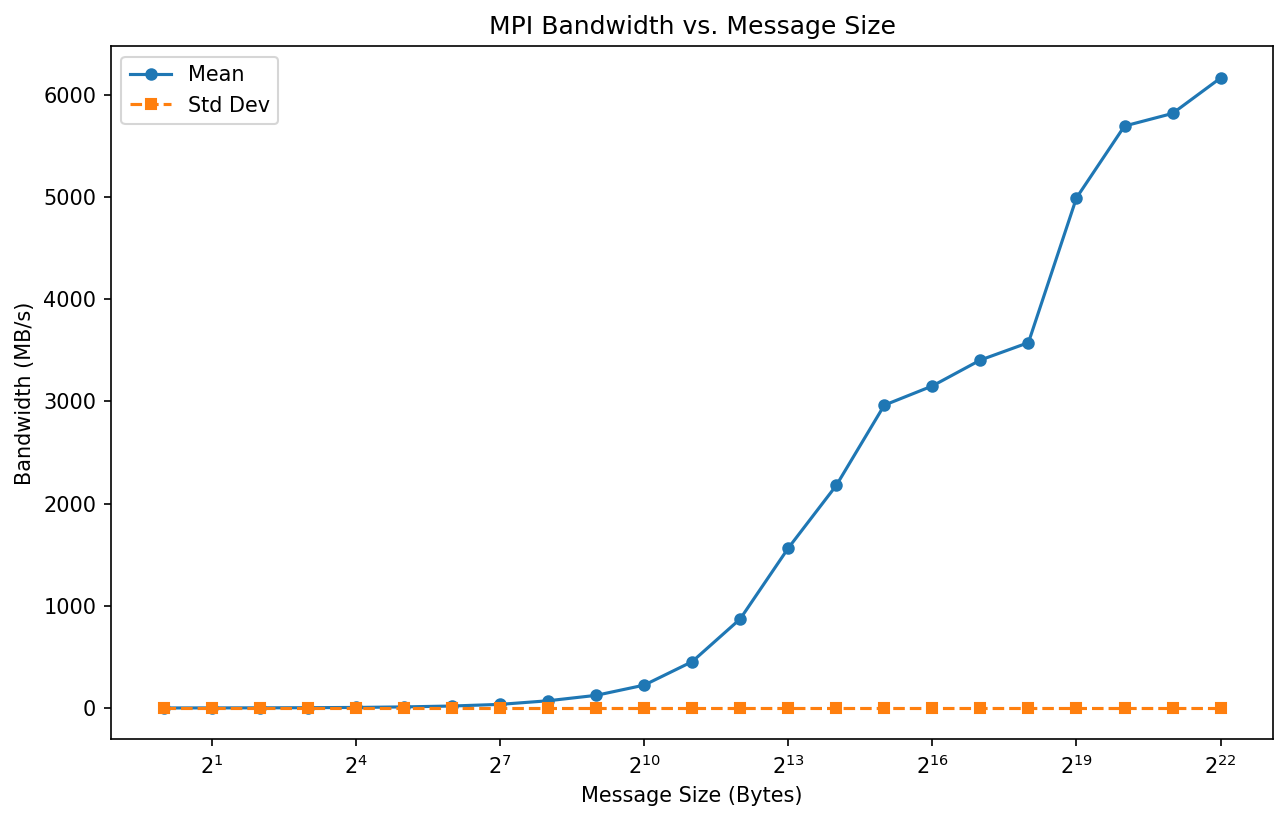
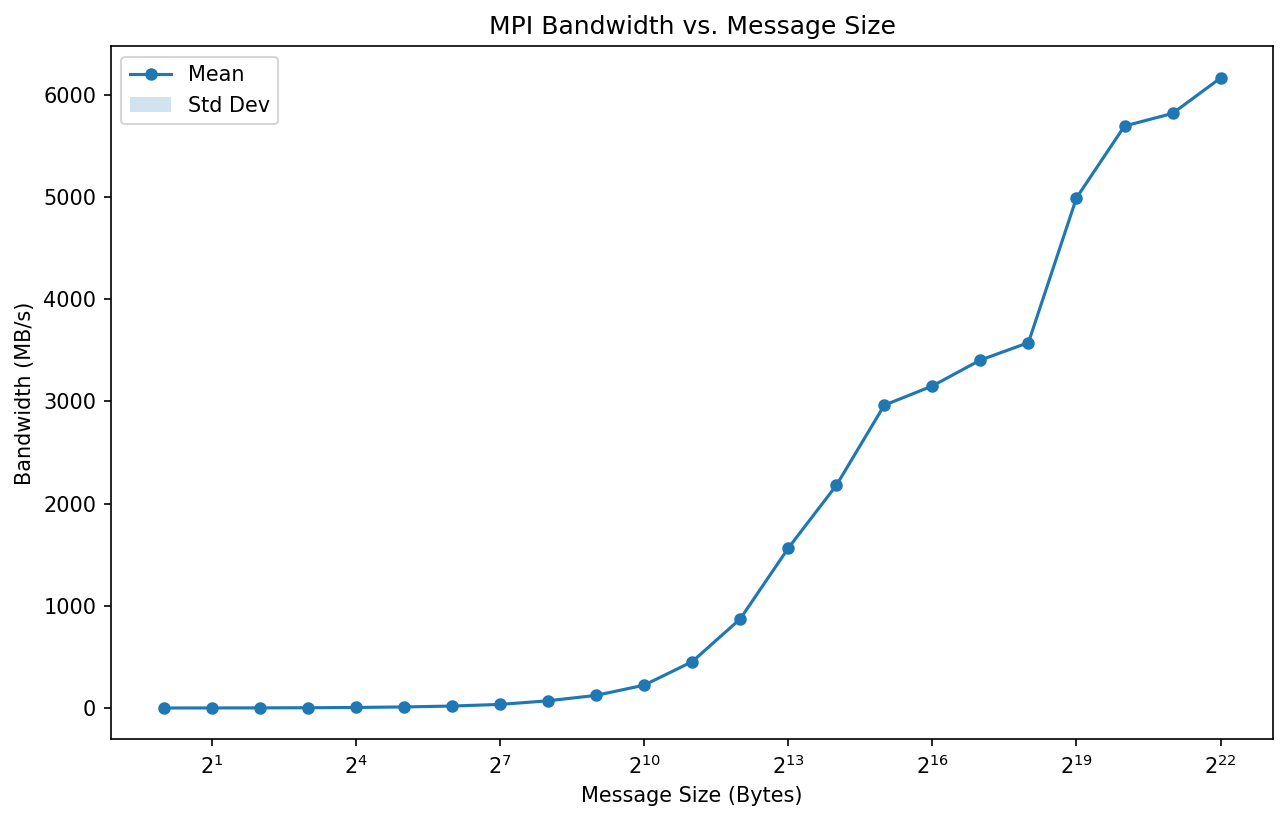
Replace std line with shaded band (mean ± std)

Changed region(s): [[0.1242, 0.8526, 0.9627, 0.8831], [0.0932, 0.1218, 0.1553, 0.1523]]

diff --git a/plot.py b/plot.py
@@ -25,8 +25,9 @@ def main():
     # Mean: scatter + line
     ax.plot(stats['size'], stats['mean'], '-o', markersize=5, label='Mean')
 
-    # Std: scatter + line
-    ax.plot(stats['size'], stats['std'], '--s', markersize=5, label='Std Dev')
+    # Std deviation as shaded band
+    ax.fill_between(stats['size'], stats['mean'] - stats['std'],
+                    stats['mean'] + stats['std'], alpha=0.2, label='Std Dev')
 
     ax.set_xscale('log', base=2)
     ax.set_xlabel("Message Size (Bytes)")
